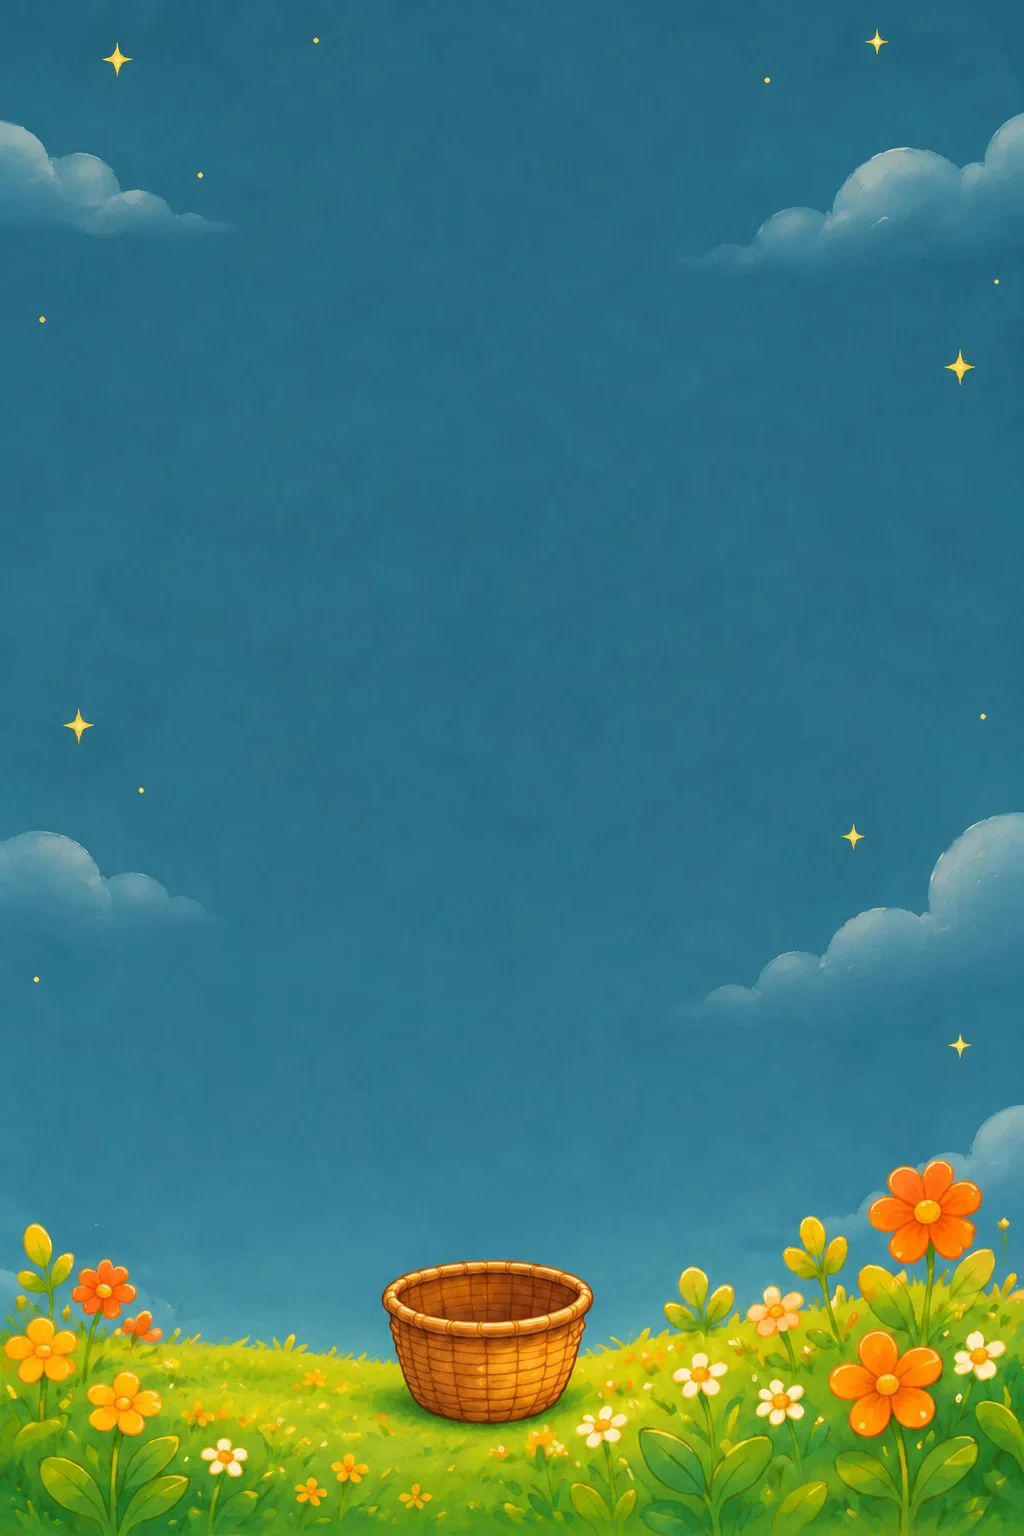
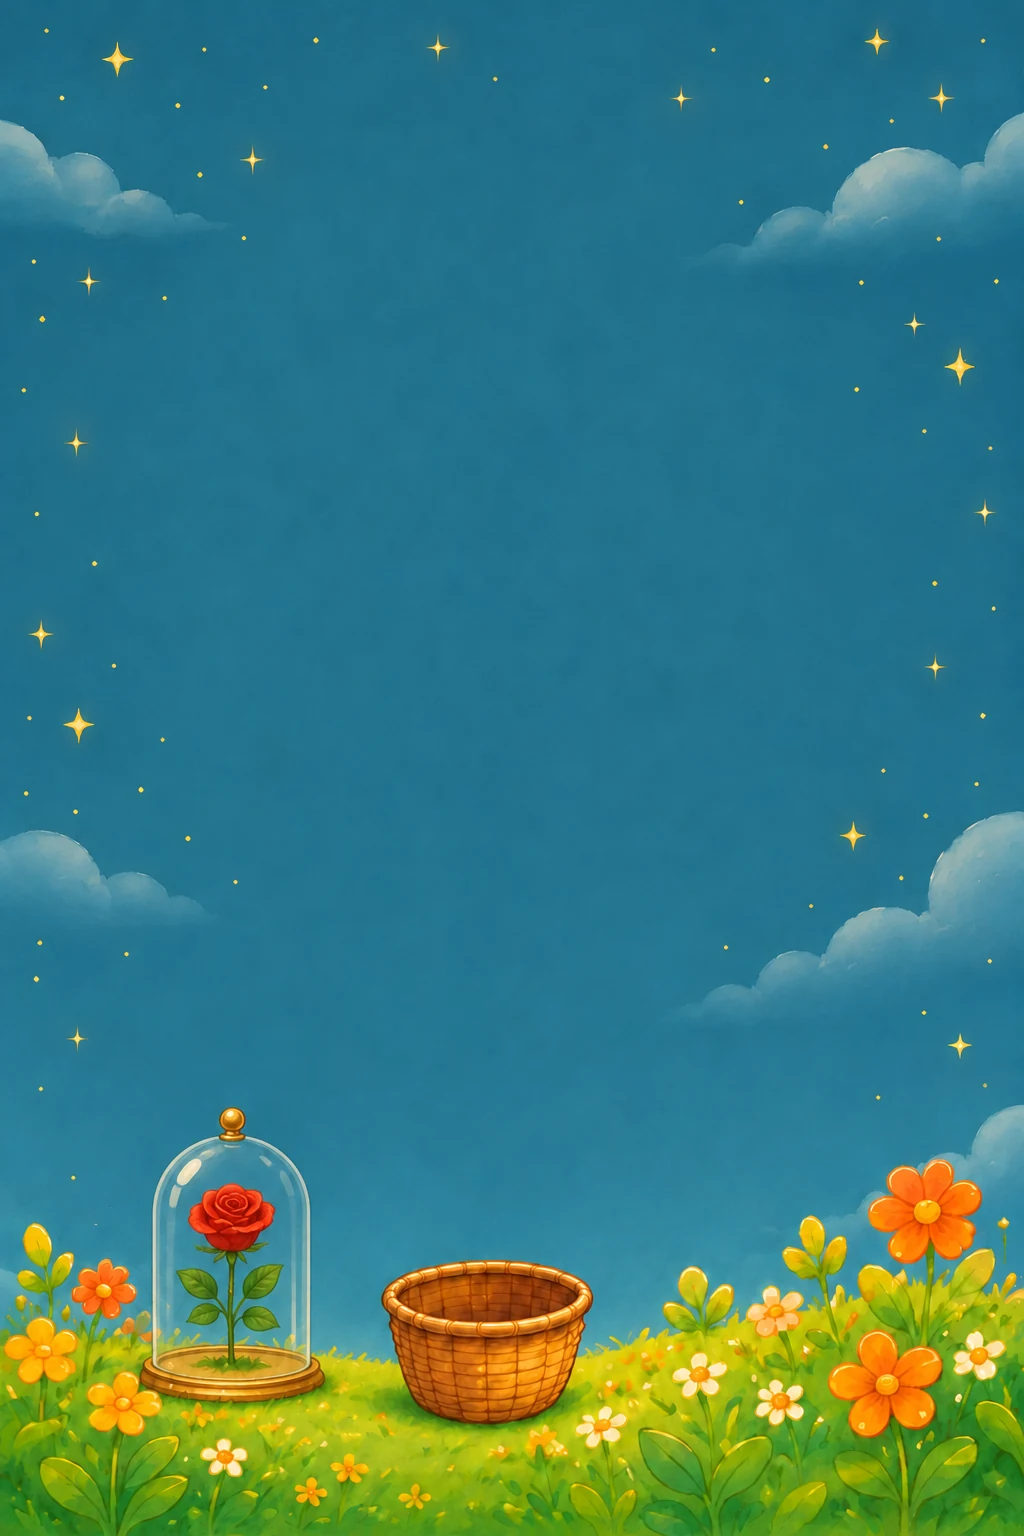
Фон экрана вопросов: новая картинка с розой под колпаком и звёздами
Роза и звёзды теперь нарисованы прямо на фоне (assets/bg.webp). Временные
отдельные звёздочки (#stars, buildStars) и роза (.rose, rose.webp) удалены.

Claude-Session: https://claude.ai/code/session_01W94RYF4d5GaTopqxH15fcW

diff --git a/game.css b/game.css
@@ -76,23 +76,6 @@ body {
 .bg { position: absolute; inset: 0; overflow: hidden; background: var(--sea); }
 .bg img { position: absolute; inset: 0; width: 100%; height: 100%; max-width: none; object-fit: cover; }
 
-/* ---------- звёздочки и роза в корзинке ---------- */
-/* ВРЕМЕННО ВЫКЛЮЧЕНО: ждём новую картинку фона, где роза и звёзды нарисованы сразу; когда она будет, этот блок и разметку #stars / .rose удалить */
-.stars, .rose { position: absolute; inset: 0; pointer-events: none; display: none; }
-.star {
-  position: absolute;
-  width: var(--sz); height: var(--sz);
-  margin: calc(var(--sz) / -2) 0 0 calc(var(--sz) / -2);
-  color: #fff3c4;
-  filter: drop-shadow(0 0 3px rgba(255, 236, 170, .85));
-  animation: twinkle var(--dur) ease-in-out var(--delay) infinite;
-}
-.star svg { display: block; width: 100%; height: 100%; }
-@keyframes twinkle { 0%, 100% { opacity: .3; transform: scale(.72); } 50% { opacity: 1; transform: scale(1); } }
-/* всё, что ниже переднего бортика корзины (нижняя половина её зева), скрыто: стебель уходит внутрь */
-.rose { clip-path: path('M0 0H390V713H229.5A48 13 0 0 1 133.5 713H0Z'); }
-.rose img { position: absolute; left: 148px; top: 634px; width: 69px; height: 96px; max-width: none; }
-
 /* ---------- вопрос ---------- */
 .question {
   position: absolute;

diff --git a/game.js b/game.js
@@ -935,22 +935,7 @@
   codeEl.textContent = PROMO.code;
   window.addEventListener('hashchange', () => go(location.hash.slice(1)));
 
-  /* ------------------------------ звёздочки на фоне вопросов ------------------------------ */
-  // [x, y, размер, задержка, период] в пикселях макета; расставлены там, где фон открыт: у краёв, под заголовком и над корзиной
-  const STARS = [
-    [30, 92, 12, 0, 3.2], [352, 88, 9, 1.1, 2.6], [58, 208, 8, .6, 3.8], [330, 210, 13, 1.8, 3], [196, 206, 6, 2.4, 3.4],
-    [13, 300, 9, .3, 2.8], [377, 362, 8, 2.2, 3.4], [14, 452, 11, 1.4, 3.6], [376, 522, 9, .8, 2.9], [12, 590, 8, 2.6, 3.1],
-    [62, 640, 11, 1.9, 2.7], [112, 676, 7, .5, 3.3], [300, 634, 9, 1.3, 3.7],
-  ];
-  function buildStars() {
-    const host = $('#stars');
-    const star = '<svg viewBox="-1 -1 2 2" aria-hidden="true"><path d="M0-1C.1-.3.3-.1 1 0C.3.1.1.3 0 1C-.1.3-.3.1-1 0C-.3-.1-.1-.3 0-1Z" fill="currentColor"/></svg>';
-    host.innerHTML = STARS.map(([x, y, sz, delay, dur]) =>
-      `<span class="star" style="left:${x}px;top:${y}px;--sz:${sz}px;--delay:${delay}s;--dur:${dur}s">${star}</span>`).join('');
-  }
-
   /* ------------------------------ запуск ------------------------------ */
-  buildStars();
   resize();
   new ResizeObserver(resize).observe(document.body);
   preloadQuestion(0);

diff --git a/index.html b/index.html
@@ -63,9 +63,6 @@ _tmr.push({id: "3814173", type: "pageView", start: (new Date()).getTime()});
       <div class="bg" aria-hidden="true">
         <img src="assets/bg.webp" alt="" draggable="false">
       </div>
-      <!-- звёздочки на фоне (расставляет game.js) и роза в корзинке: нижний край розы прячется за передним бортиком -->
-      <div class="stars" id="stars" aria-hidden="true"></div>
-      <div class="rose" aria-hidden="true"><img src="assets/rose.webp" alt="" draggable="false"></div>
 
       <div class="question">
         <div class="chip" id="chip">Вопрос 1 из 8</div>

diff --git a/p/expedition/index.html b/p/expedition/index.html
@@ -64,9 +64,6 @@ _tmr.push({id: "3814173", type: "pageView", start: (new Date()).getTime()});
       <div class="bg" aria-hidden="true">
         <img src="assets/bg.webp" alt="" draggable="false">
       </div>
-      <!-- звёздочки на фоне (расставляет game.js) и роза в корзинке: нижний край розы прячется за передним бортиком -->
-      <div class="stars" id="stars" aria-hidden="true"></div>
-      <div class="rose" aria-hidden="true"><img src="assets/rose.webp" alt="" draggable="false"></div>
 
       <div class="question">
         <div class="chip" id="chip">Вопрос 1 из 8</div>

diff --git a/p/garden/index.html b/p/garden/index.html
@@ -64,9 +64,6 @@ _tmr.push({id: "3814173", type: "pageView", start: (new Date()).getTime()});
       <div class="bg" aria-hidden="true">
         <img src="assets/bg.webp" alt="" draggable="false">
       </div>
-      <!-- звёздочки на фоне (расставляет game.js) и роза в корзинке: нижний край розы прячется за передним бортиком -->
-      <div class="stars" id="stars" aria-hidden="true"></div>
-      <div class="rose" aria-hidden="true"><img src="assets/rose.webp" alt="" draggable="false"></div>
 
       <div class="question">
         <div class="chip" id="chip">Вопрос 1 из 8</div>

diff --git a/p/home/index.html b/p/home/index.html
@@ -64,9 +64,6 @@ _tmr.push({id: "3814173", type: "pageView", start: (new Date()).getTime()});
       <div class="bg" aria-hidden="true">
         <img src="assets/bg.webp" alt="" draggable="false">
       </div>
-      <!-- звёздочки на фоне (расставляет game.js) и роза в корзинке: нижний край розы прячется за передним бортиком -->
-      <div class="stars" id="stars" aria-hidden="true"></div>
-      <div class="rose" aria-hidden="true"><img src="assets/rose.webp" alt="" draggable="false"></div>
 
       <div class="question">
         <div class="chip" id="chip">Вопрос 1 из 8</div>

diff --git a/p/sweet/index.html b/p/sweet/index.html
@@ -64,9 +64,6 @@ _tmr.push({id: "3814173", type: "pageView", start: (new Date()).getTime()});
       <div class="bg" aria-hidden="true">
         <img src="assets/bg.webp" alt="" draggable="false">
       </div>
-      <!-- звёздочки на фоне (расставляет game.js) и роза в корзинке: нижний край розы прячется за передним бортиком -->
-      <div class="stars" id="stars" aria-hidden="true"></div>
-      <div class="rose" aria-hidden="true"><img src="assets/rose.webp" alt="" draggable="false"></div>
 
       <div class="question">
         <div class="chip" id="chip">Вопрос 1 из 8</div>
